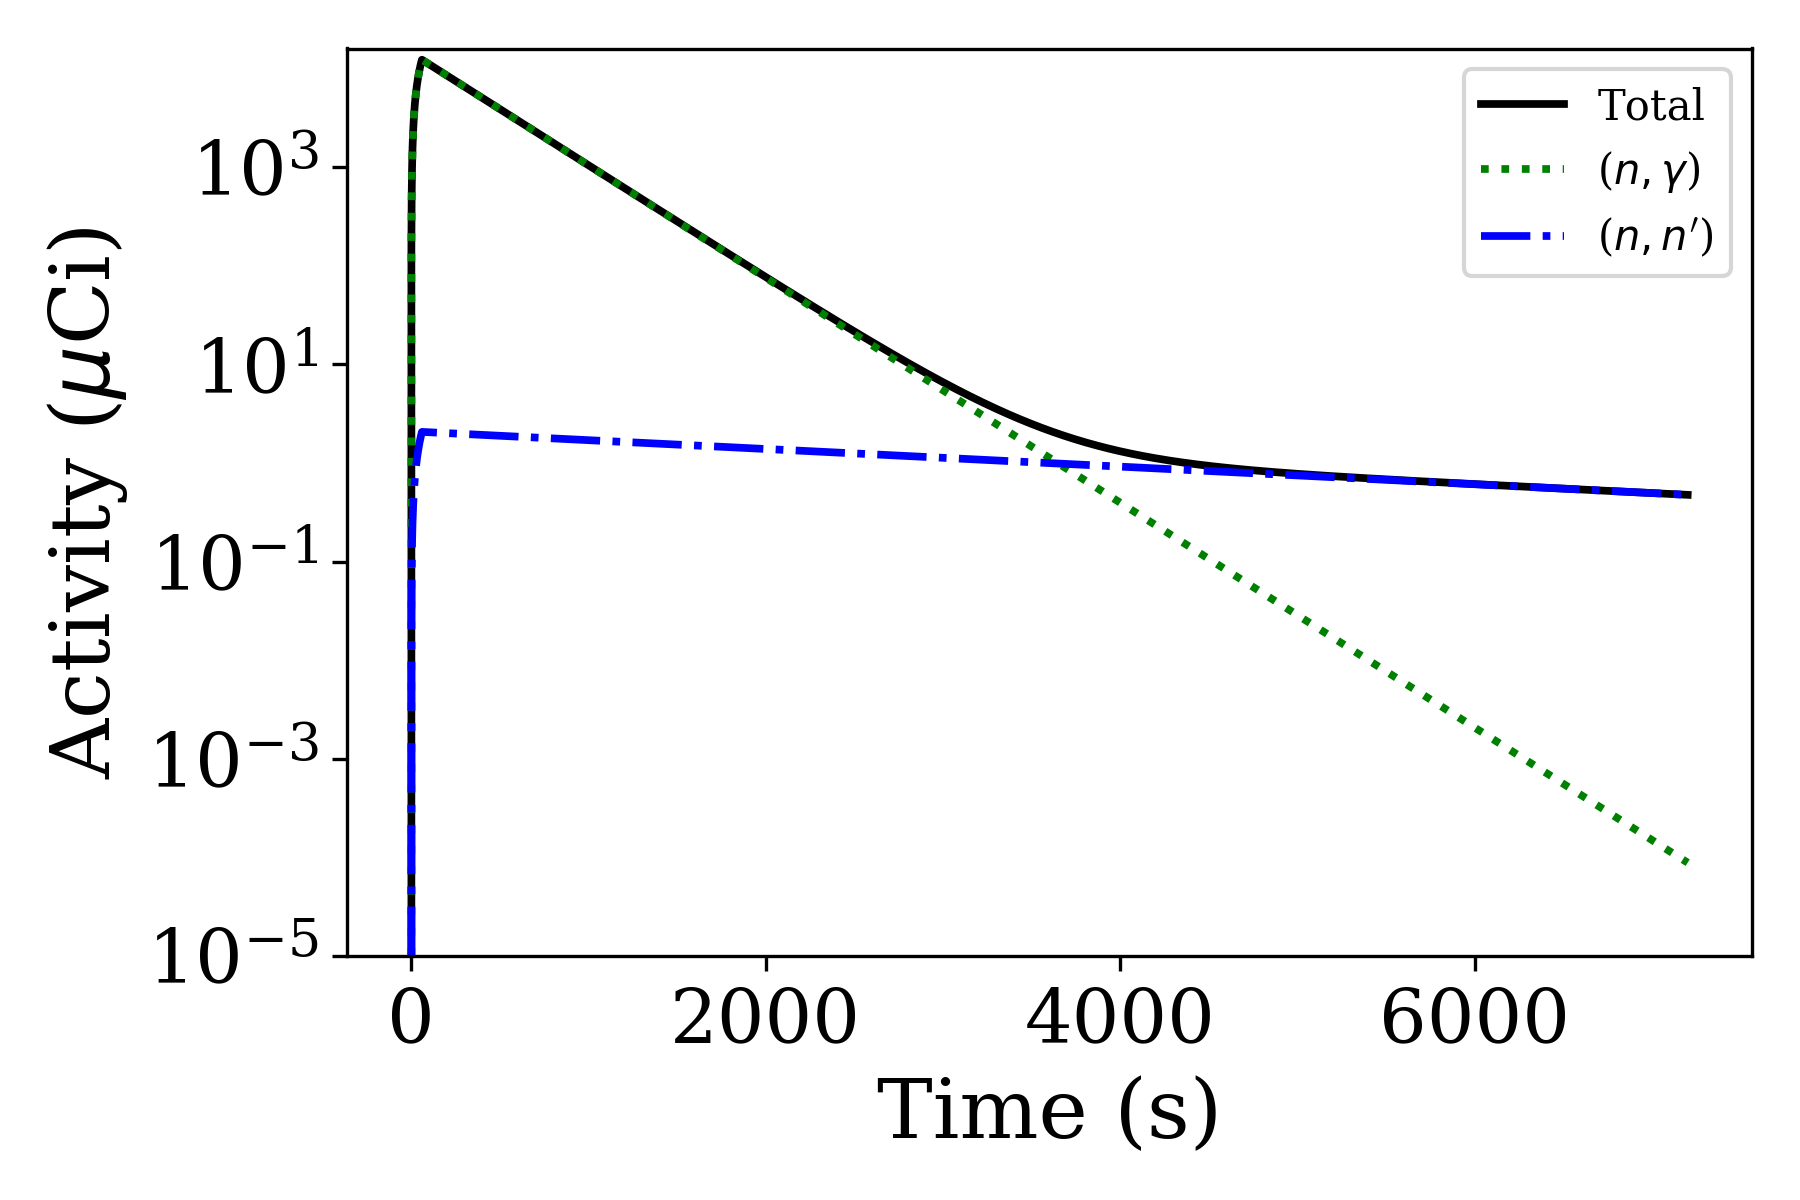
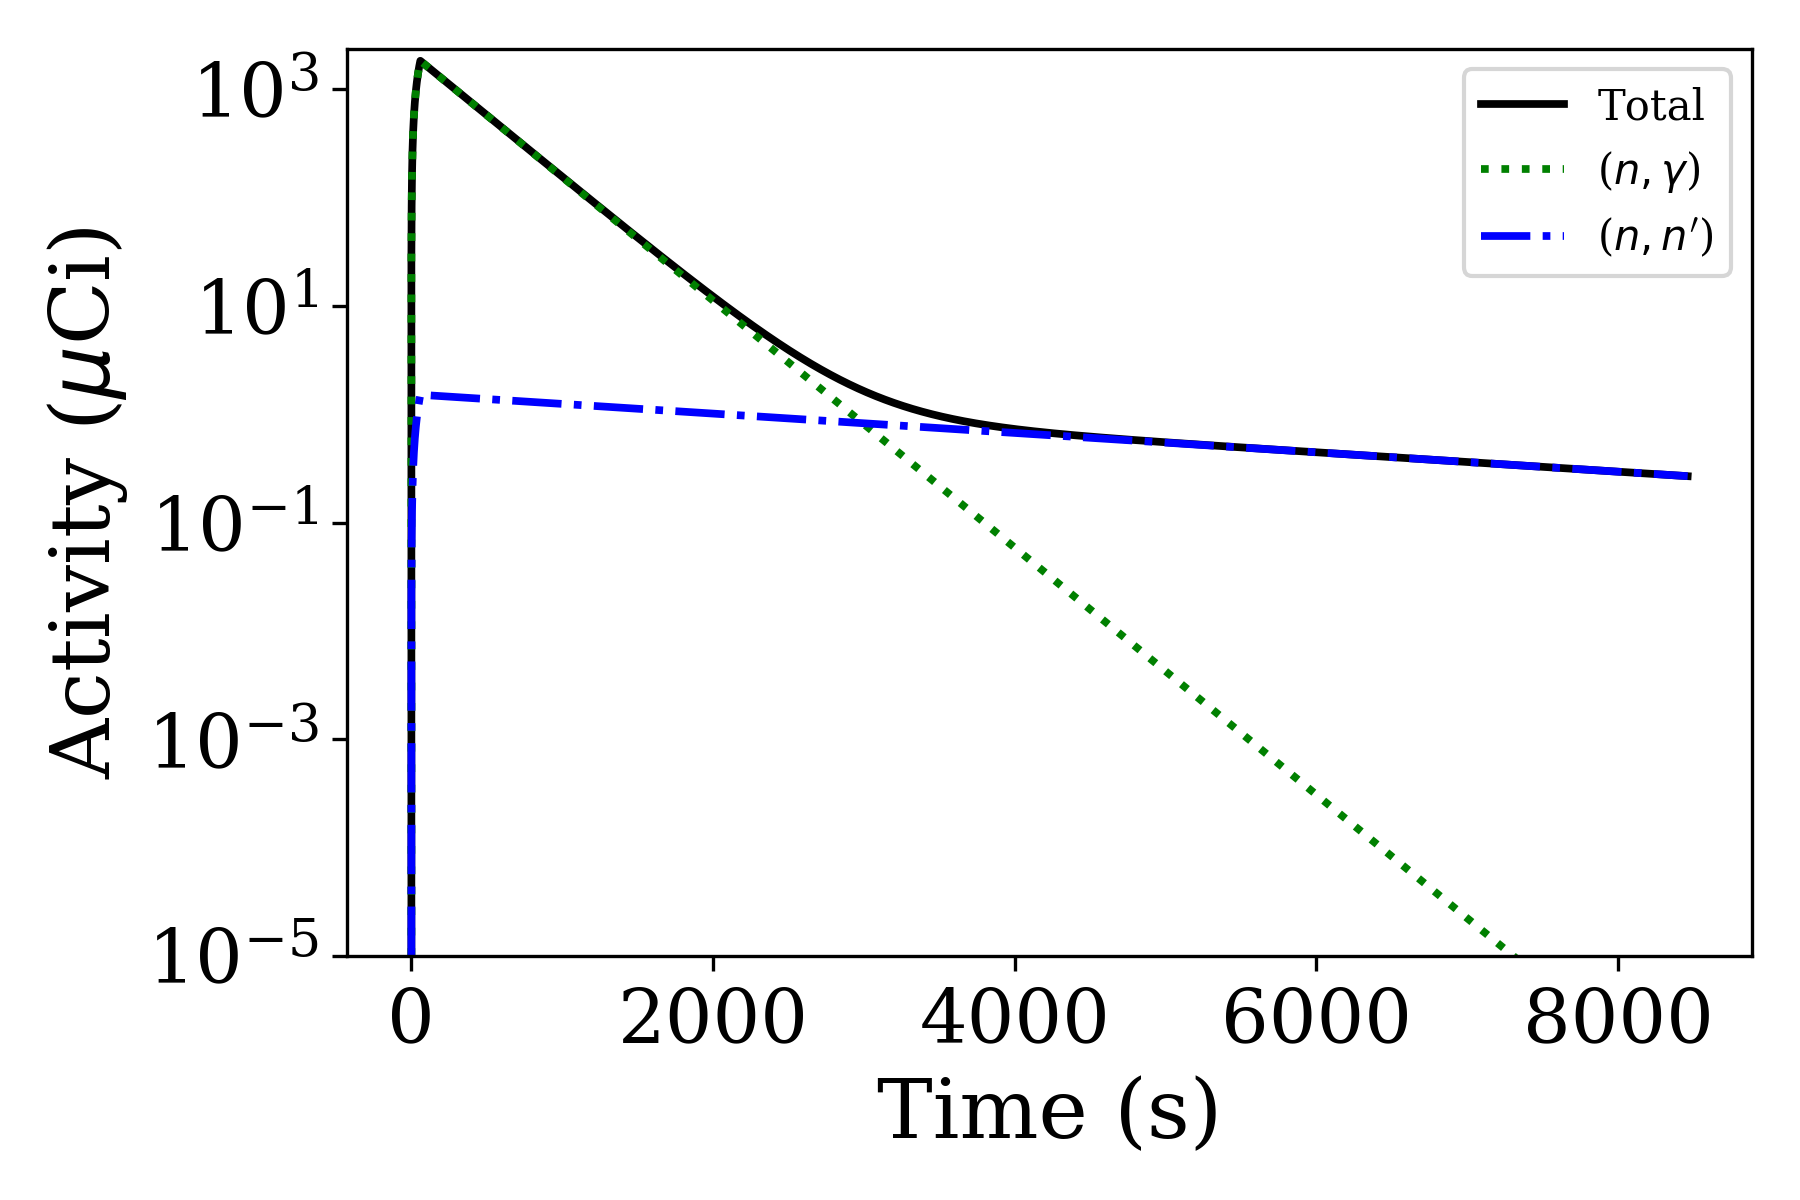
updated rh and al counting times

diff --git a/source/theoretical_7_11_18.py b/source/theoretical_7_11_18.py
@@ -1,46 +1,64 @@
 '''
-Theoretical Results for the 6_25_18 irradiation.
+Theoretical Results for the 7_11_18 irradiation.
 '''
 import numpy as np
 from wand import Wand
 import pickle
 
+dataname = 'theoretical_7_11_18.txt'
+
 
 def run(rerun_all):
 
     try:
-        with open('theoretical_6_25_18.txt', 'rb') as F:
+        with open(dataname, 'rb') as F:
             data = pickle.load(F)
     except:
         data = {}
     ###############################################################################
-    #                                gold
+    #                                rhodium
     ###############################################################################
 
     if False or rerun_all:
         wand = Wand()
-        wand.name = 'gold'
-        wand.mat = 'Au'
+        wand.name = 'rhodium'
+        wand.mat = 'Rh'
         wand.cd = False
-        wand.masses = np.array([2.5, 2.7, 3.2, 2.5])  # mg
+        wand.masses = np.array([0.5, 0.5, 0.5, 0.5])  # mg
         wand.t_i = 60  # s
-        wand.t_w = 3600*24*4  # s
-        wand.counting_time = 60
+        wand.t_w = 3600*2  # s
+        wand.counting_time = 300
         wand.P = 100  # kW(th)
         wand.irradiate(False)
         data.update(wand.package_data())
 
     ###############################################################################
-    #                                indium
+    #                              aluminum
     ###############################################################################
     if True or rerun_all:
+        wand = Wand()
+        wand.name = 'aluminum'
+        wand.mat = 'Al'
+        wand.cd = False
+        stack_height = 10
+        masses = np.array([0.2, 0.2, 0.2, 0.2]) * stack_height
+        wand.masses = masses  # mg
+        wand.t_i = 3600  # s
+        wand.t_w = 3600*24*2  # s
+        wand.counting_time = 3600
+        wand.P = 100  # kW(th)
+        wand.irradiate(False)
+        data.update(wand.package_data())
+
+    ###############################################################################
+    #                                indium (cd)
+    ###############################################################################
+    if False or rerun_all:
         wand = Wand()
         wand.name = 'indium'
         wand.mat = 'In'
         wand.cd = False
-        abundance = 0.9572
-        masses = np.array([1.7, 1.5, 1.4, 1.6]) * abundance
-        wand.masses = masses  # mg
+        wand.masses = np.array([1.7, 1.5, 1.4, 1.6])  # mg
         wand.t_i = 60  # s
         wand.t_w = 8*3600 + 40*60  # s
         wand.counting_time = 60
@@ -53,8 +71,8 @@ def run(rerun_all):
     ###############################################################################
     if False or rerun_all:
         wand = Wand()
-        wand.name = 'gold'
-        wand.mat = 'Au'
+        wand.name = 'indium'
+        wand.mat = 'In'
         wand.cd = True
         wand.masses = np.array([3.9, 3.3, 3.4, 3.9])  # mg
         wand.t_i = 60  # s
@@ -64,28 +82,16 @@ def run(rerun_all):
         wand.irradiate(False)
         data.update(wand.package_data())
 
-    ###############################################################################
-    #                              aluminum
-    ###############################################################################
-    if False or rerun_all:
-        wand = Wand()
-        wand.name = 'aluminum'
-        wand.mat = 'Al'
-        wand.cd = False
-        wand.masses = np.array([0.3, 0.2, 0.1, 0.2])  # mg
-        wand.t_i = 3600  # s
-        wand.t_w = 354870  # s
-        wand.counting_time = 3600
-        wand.P = 100  # kW(th)
-        wand.irradiate(False)
-        data.update(wand.package_data())
-
     # dump data
-    with open('theoretical_6_25_18.txt', 'wb') as F:
+    with open(dataname, 'wb') as F:
         pickle.dump(data, F)
 
 if __name__ == '__main__':
-    run(True)
+    run(False)
 
-with open('theoretical_6_25_18.txt', 'rb') as F:
+with open(dataname, 'rb') as F:
     data = pickle.load(F)
+
+for key, val in data.items():
+    counts = val.peak_area
+    print(key, counts, np.sqrt(counts) / counts)

diff --git a/source/cross_sections.py b/source/cross_sections.py
@@ -322,7 +322,7 @@ Zr['reactions']['n,2n']['plotname'] = 'zr_n,2n'
 
 # molybdenum
 Mo = {}
-Mo['M'] = 95.95 # g/mol
+Mo['M'] = 95.95  # g/mol
 Mo['rho'] = 10.28  # g/cm3
 Mo['reactions'] = {}
 
@@ -331,9 +331,9 @@ Mo['reactions']['n,gamma'] = {}
 f, r = extract('42-Mo-98(n,&gamma;)')
 Mo['reactions']['n,gamma']['func'] = f
 Mo['reactions']['n,gamma']['region'] = r
-Mo['reactions']['n,gamma']['roi'] = 1.6333e-02,7.6131e+03 # computed
-Mo['reactions']['n,gamma']['roi_cd'] = r # initial guess
-Mo['reactions']['n,gamma']['halflife'] =  	65.94 * 60 * 60  # s
+Mo['reactions']['n,gamma']['roi'] = 1.6333e-02, 7.6131e+03  # computed
+Mo['reactions']['n,gamma']['roi_cd'] = r  # initial guess
+Mo['reactions']['n,gamma']['halflife'] = 65.94 * 60 * 60  # s
 Mo['reactions']['n,gamma']['label'] = r'($n,\gamma$)'
 Mo['reactions']['n,gamma']['erg'] = [(1, 1)]  # keV (placeholder)
 Mo['reactions']['n,gamma']['plotname'] = 'mo_n,gamma'
@@ -342,6 +342,9 @@ Mo['reactions']['n,gamma']['plotname'] = 'mo_n,gamma'
 Rh = {}
 Rh['M'] = 102.90550  # g/mol
 Rh['rho'] = 12.41  # g/cm3
+Rh['principle'] = 'n,inelastic'
+Rh['principle_br'] = 1.0
+Rh['principle_erg'] = 40
 Rh['reactions'] = {}
 
 Rh['reactions']['n,gamma'] = {}
@@ -363,7 +366,7 @@ Rh['reactions']['n,inelastic']['roi'] = 4.8522e+05, 5.2273e+06  # computed
 Rh['reactions']['n,inelastic']['roi_cd'] = 4.4469e+05, 5.1947e+06  # initial guess
 Rh['reactions']['n,inelastic']['halflife'] = 56.12 * 60  # s
 Rh['reactions']['n,inelastic']['label'] = r"($n,n'$)"
-Rh['reactions']['n,inelastic']['erg'] = [(0.004, 40)]  # intensity, keV
+Rh['reactions']['n,inelastic']['erg'] = [(1.0, 40)]  # intensity, keV
 Rh['reactions']['n,inelastic']['plotname'] = 'rh_n,inelastic'
 
 # Rh['reactions']['n,2n'] = {}

diff --git a/source/wand.py b/source/wand.py
@@ -30,7 +30,7 @@ class Wand(object):
 
     def irradiate(self, write):
         print('\n')
-        print(self.name.capitalize() + 'w/ Cadmium' if self.cd else self.name.capitalize())
+        print(self.name.capitalize() + ' w/ Cadmium' if self.cd else self.name.capitalize())
         self.calc_t_f()
         self.removal_activity = 0
         self.counting_activities = np.zeros(4)
@@ -52,8 +52,11 @@ class Wand(object):
 
     def package_data(self):
         data = {}
+        cd_str = ''
+        if self.cd:
+            cd_str = '_cd'
         for i in range(1, 5):
-            data[self.mat.lower() + str(i)] = Foil(self.counts[i-1], np.sqrt(self.counts[i-1]),
+            data[self.mat.lower() + cd_str + str(i)] = Foil(self.counts[i-1], np.sqrt(self.counts[i-1]),
                                                    self.counting_activities[i-1], 0, self.counting_time)
         return data
 

diff --git a/source/hpge.py b/source/hpge.py
@@ -1,14 +1,24 @@
 import numpy as np
+from scipy.interpolate import interp1d
 import matplotlib.pyplot as plt
 
 
-def hpge_efficiency(e):
+def hpge_efficiency1(e):
     e = np.log(e)
     eff = (-143.191) + (91.147) * e + (-21.757) * e**2 + (2.279) * e**3 + (-0.089) * e**4
     return np.exp(eff)
 
 
+def hpge_efficiency(e):
+    erg = np.array([60, 86.5, 105.3, 176.3, 427.90, 600.6, 834.8, 1173.2, 1332.5])
+    eff = np.array([2.39e-2, 7.5e-2, 9.27e-2, 9.35e-2, 4.77e-2, 3.51e-2, 2.64e-2, 1.87e-2, 1.69e-2])
+    efficiency = interp1d(erg, eff, fill_value='extrapolate')
+    return efficiency(e)
+
+
 if __name__ == '__main__':
-    x = np.linspace(0, 2000)
+    x = np.linspace(0, 2000, 2000)
     y = hpge_efficiency(x)
-    plt.plot(x, y)
+    y1 = hpge_efficiency1(x)
+    plt.plot(x, y, x, y1)
+    plt.ylim(0)
